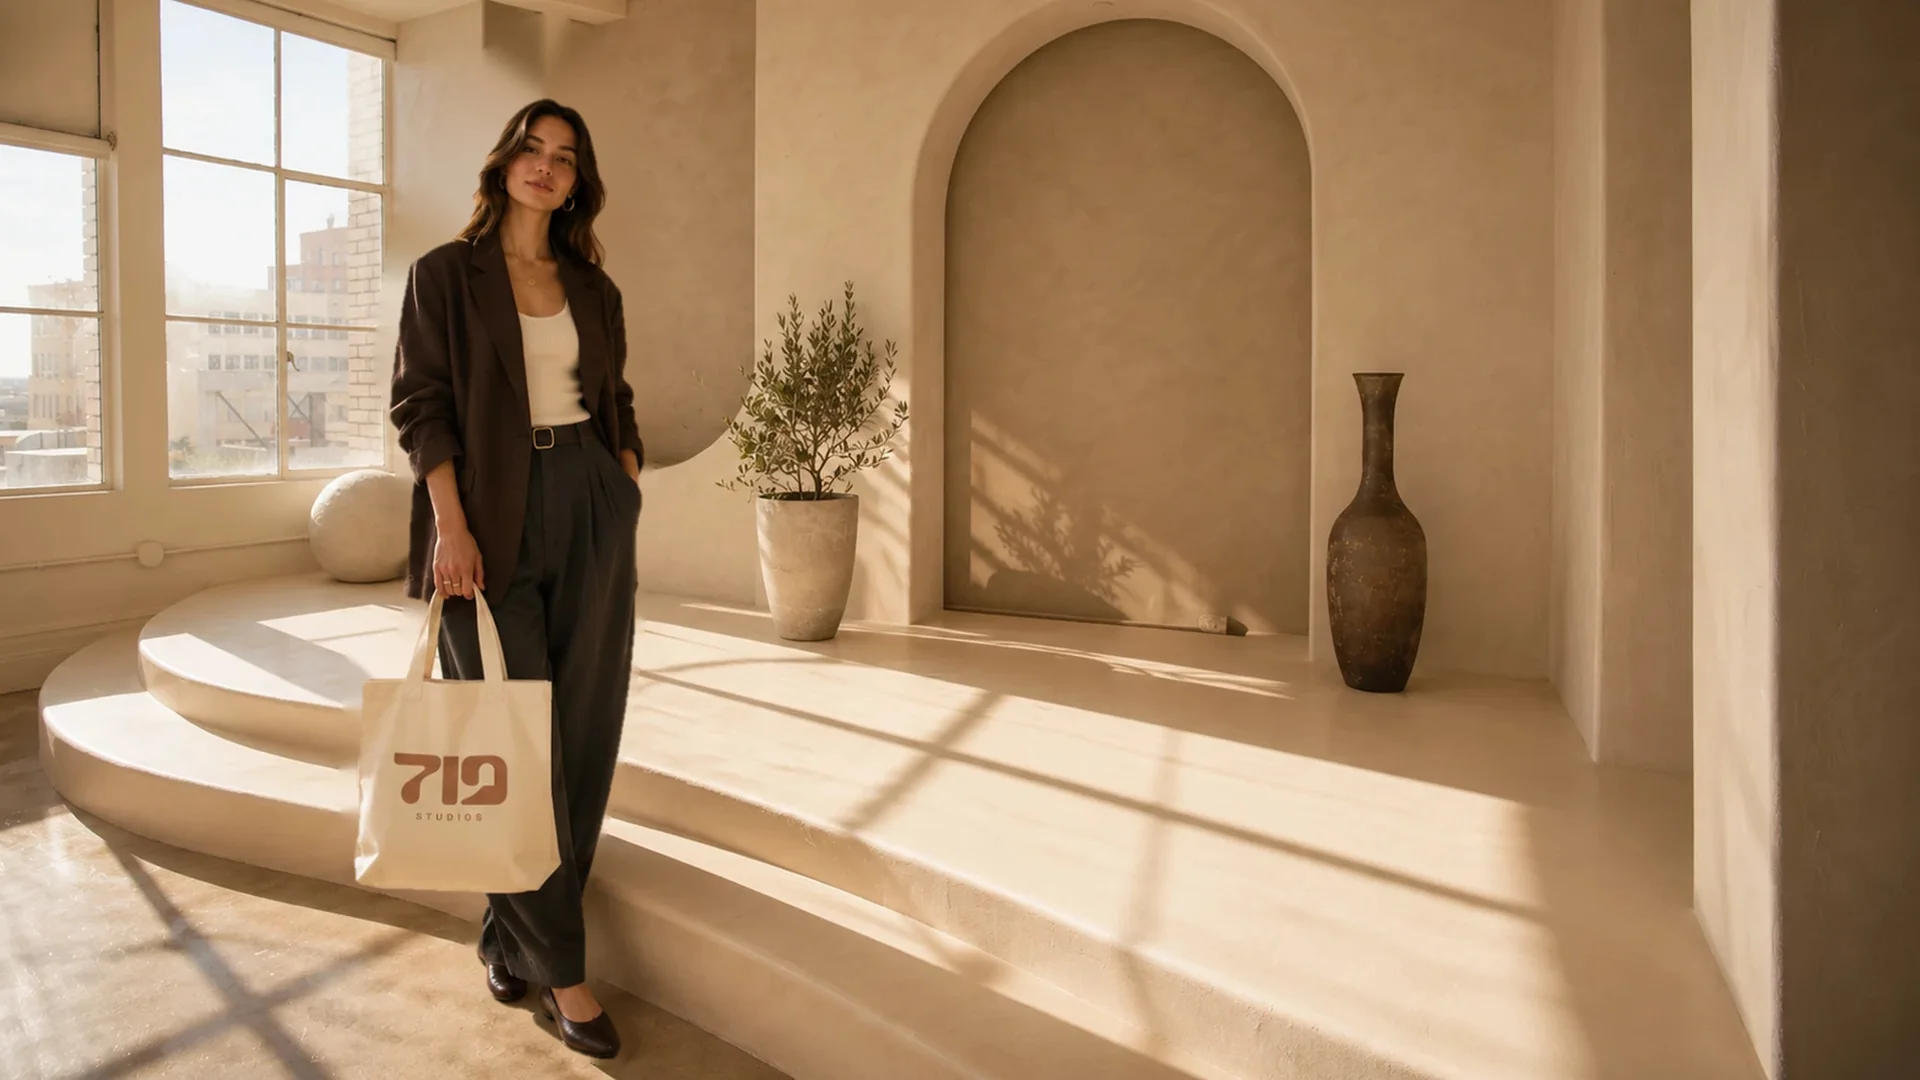
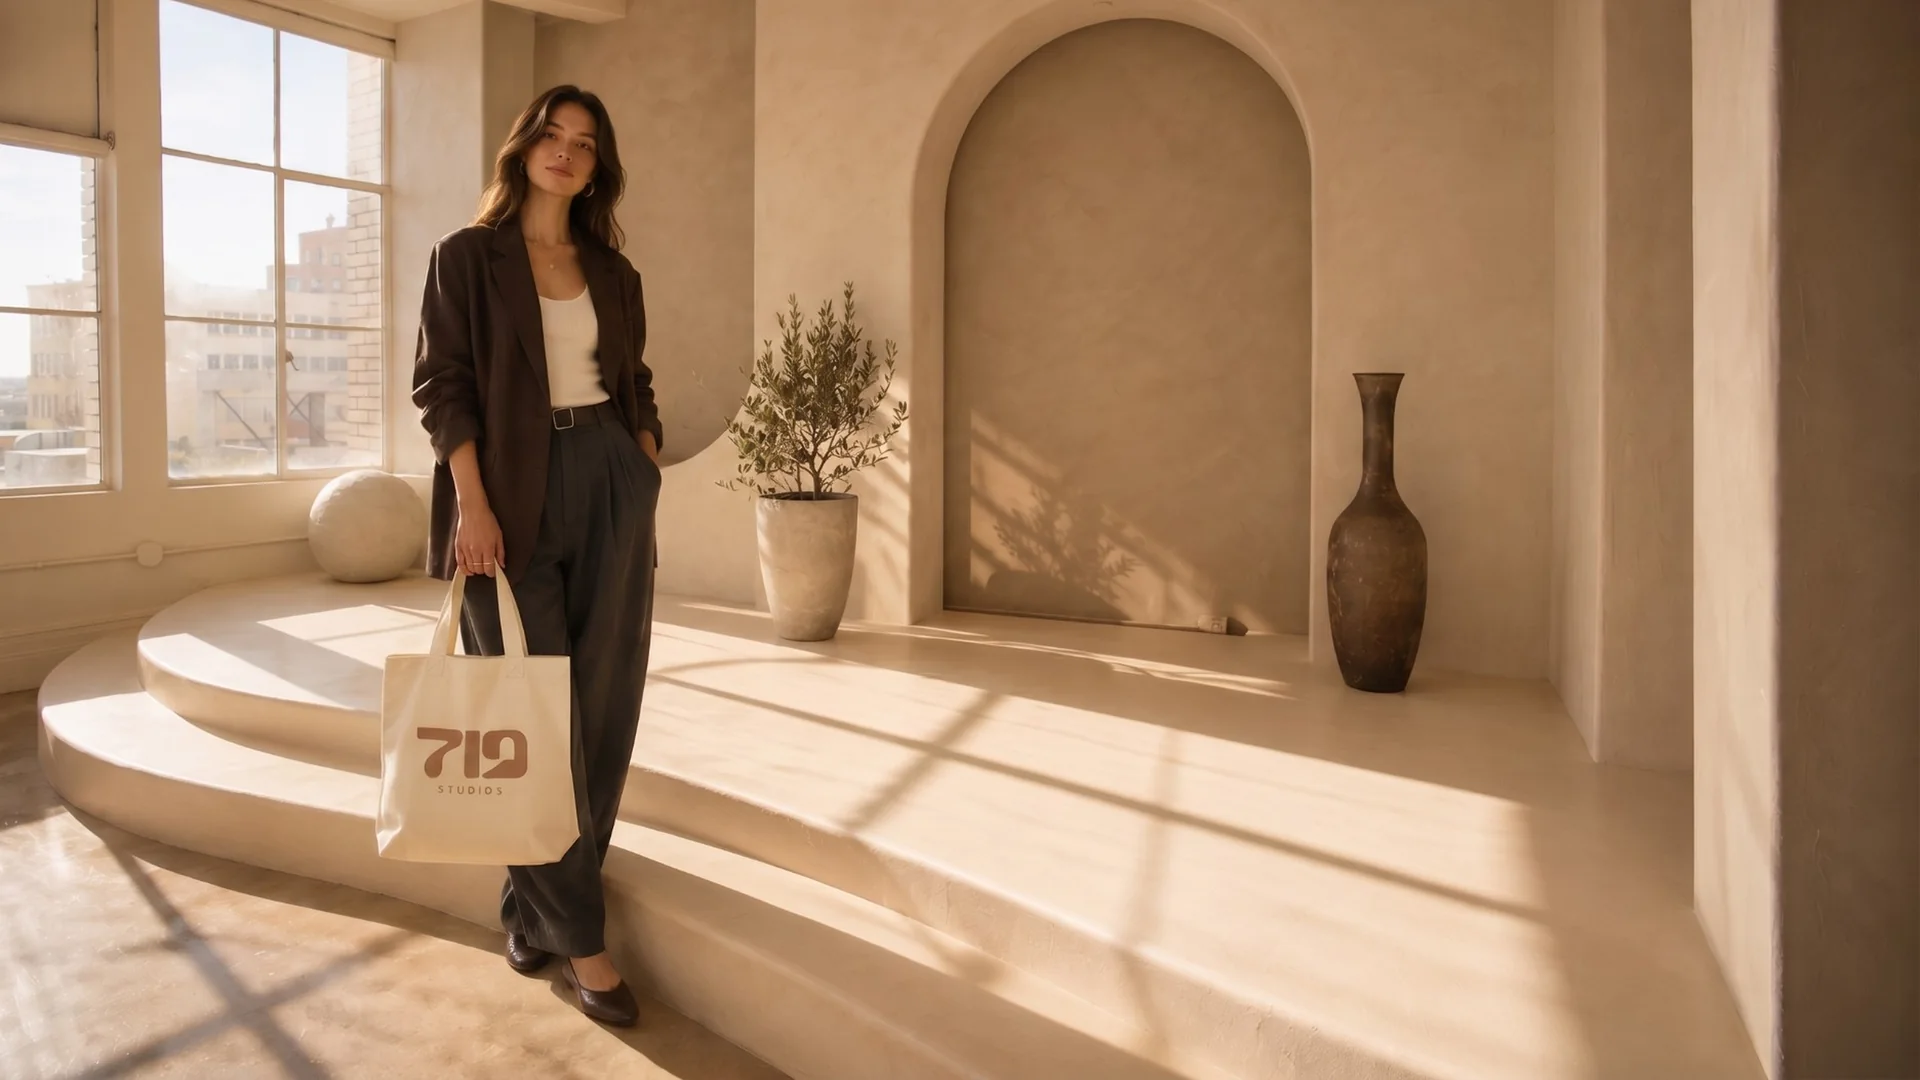
719 Studios: new tote photo, cropped past the air conditioner

diff --git a/work/719-studios/index.html b/work/719-studios/index.html
@@ -85,21 +85,21 @@
     </div>
   </section>
   <div class="g">
-    <figure class="cell c12" data-reveal role="img" aria-label="The 719 Studios logo set inside the orange circle of the Etherea room"><img src="../../assets/img/work/719/deck/figma/04-etherea-1920.webp?v=20261117c" srcset="../../assets/img/work/719/deck/figma/04-etherea-960.webp?v=20261117c 960w, ../../assets/img/work/719/deck/figma/04-etherea-1920.webp?v=20261117c 1920w" sizes="100vw" width="1920" height="1080" alt="" decoding="async"></figure>
-    <figure class="cell c12" data-reveal role="img" aria-label="The five brand colours with their names and values: Umber, Clay, Blush, Sand and Birch"><img src="../../assets/img/work/719/deck/figma/02-palette-1920.webp?v=20261117c" srcset="../../assets/img/work/719/deck/figma/02-palette-960.webp?v=20261117c 960w, ../../assets/img/work/719/deck/figma/02-palette-1920.webp?v=20261117c 1920w" sizes="100vw" width="1920" height="1080" alt="" loading="lazy" decoding="async"></figure>
-    <figure class="cell c6" data-reveal role="img" aria-label="The 719 Studios logo in clay on a pale birch ground"><img src="../../assets/img/work/719/deck/figma/01-logo-1920.webp?v=20261117c" srcset="../../assets/img/work/719/deck/figma/01-logo-960.webp?v=20261117c 960w, ../../assets/img/work/719/deck/figma/01-logo-1920.webp?v=20261117c 1920w" sizes="(max-width: 799px) 100vw, 50vw" width="1920" height="1080" alt="" loading="lazy" decoding="async"></figure>
-    <figure class="cell c6" data-reveal role="img" aria-label="The typeface Bricolage Grotesque in three weights, with the three studio taglines"><img src="../../assets/img/work/719/deck/figma/03-type-1920.webp?v=20261117c" srcset="../../assets/img/work/719/deck/figma/03-type-960.webp?v=20261117c 960w, ../../assets/img/work/719/deck/figma/03-type-1920.webp?v=20261117c 1920w" sizes="(max-width: 799px) 100vw, 50vw" width="1920" height="1080" alt="" loading="lazy" decoding="async"></figure>
-    <figure class="cell c4 tall" data-reveal role="img" aria-label="The Etherea poster: its room through a circle, with the line A little otherworldly"><img src="../../assets/img/work/719/deck/figma/05-poster-etherea-880.webp?v=20261117c" srcset="../../assets/img/work/719/deck/figma/05-poster-etherea-440.webp?v=20261117c 440w, ../../assets/img/work/719/deck/figma/05-poster-etherea-880.webp?v=20261117c 880w, ../../assets/img/work/719/deck/figma/05-poster-etherea-1180.webp?v=20261117c 1180w" sizes="(max-width: 799px) 100vw, 33vw" width="1468" height="2202" alt="" loading="lazy" decoding="async"></figure>
-    <figure class="cell c4 tall" data-reveal role="img" aria-label="The Terra poster: its room through an upside-down arch, with the line Find your own angle"><img src="../../assets/img/work/719/deck/figma/05-poster-terra-880.webp?v=20261117c" srcset="../../assets/img/work/719/deck/figma/05-poster-terra-440.webp?v=20261117c 440w, ../../assets/img/work/719/deck/figma/05-poster-terra-880.webp?v=20261117c 880w, ../../assets/img/work/719/deck/figma/05-poster-terra-1180.webp?v=20261117c 1180w" sizes="(max-width: 799px) 100vw, 33vw" width="1468" height="2202" alt="" loading="lazy" decoding="async"></figure>
-    <figure class="cell c4 tall" data-reveal role="img" aria-label="The Solaris poster: its room through an arch, with the line Let the light in"><img src="../../assets/img/work/719/deck/figma/05-poster-solaris-880.webp?v=20261117c" srcset="../../assets/img/work/719/deck/figma/05-poster-solaris-440.webp?v=20261117c 440w, ../../assets/img/work/719/deck/figma/05-poster-solaris-880.webp?v=20261117c 880w, ../../assets/img/work/719/deck/figma/05-poster-solaris-1180.webp?v=20261117c 1180w" sizes="(max-width: 799px) 100vw, 33vw" width="1468" height="2202" alt="" loading="lazy" decoding="async"></figure>
-    <figure class="cell c12" data-reveal role="img" aria-label="Four figures over a photo taken at Etherea: 1,000+ reviews, 5.0 average rating, No. 9 on Peerspace in Los Angeles in 2023, 3.2M timelapse views"><img src="../../assets/img/work/719/deck/figma/06-numbers-1920.webp?v=20261117c" srcset="../../assets/img/work/719/deck/figma/06-numbers-960.webp?v=20261117c 960w, ../../assets/img/work/719/deck/figma/06-numbers-1920.webp?v=20261117c 1920w" sizes="100vw" width="1920" height="1080" alt="" loading="lazy" decoding="async"></figure>
-    <figure class="cell c6" data-reveal role="img" aria-label="The 719 Studios logo over the empty Terra room"><img src="../../assets/img/work/719/deck/figma/07-terra-1920.webp?v=20261117c" srcset="../../assets/img/work/719/deck/figma/07-terra-960.webp?v=20261117c 960w, ../../assets/img/work/719/deck/figma/07-terra-1920.webp?v=20261117c 1920w" sizes="(max-width: 799px) 100vw, 50vw" width="1920" height="1080" alt="" loading="lazy" decoding="async"></figure>
-    <figure class="cell c6" data-reveal role="img" aria-label="Two oversized studio shapes with a circle between them holding the logo"><img src="../../assets/img/work/719/deck/figma/09-pattern-shapes-1920.webp?v=20261117c" srcset="../../assets/img/work/719/deck/figma/09-pattern-shapes-960.webp?v=20261117c 960w, ../../assets/img/work/719/deck/figma/09-pattern-shapes-1920.webp?v=20261117c 1920w" sizes="(max-width: 799px) 100vw, 50vw" width="1920" height="1080" alt="" loading="lazy" decoding="async"></figure>
-    <figure class="cell c12" data-reveal role="img" aria-label="A concept ad banner with the line Room to make and three photos seen through the studio shapes"><img src="../../assets/img/work/719/deck/figma/10-ad-1920.webp?v=20261117c" srcset="../../assets/img/work/719/deck/figma/10-ad-960.webp?v=20261117c 960w, ../../assets/img/work/719/deck/figma/10-ad-1920.webp?v=20261117c 1920w" sizes="100vw" width="1920" height="1080" alt="" loading="lazy" decoding="async"></figure>
-    <figure class="cell c6" data-reveal role="img" aria-label="A concept email signature with the three studio shapes and the logo"><img src="../../assets/img/work/719/deck/figma/11-email-1920.webp?v=20261117c" srcset="../../assets/img/work/719/deck/figma/11-email-960.webp?v=20261117c 960w, ../../assets/img/work/719/deck/figma/11-email-1920.webp?v=20261117c 1920w" sizes="(max-width: 799px) 100vw, 50vw" width="1920" height="1080" alt="" loading="lazy" decoding="async"></figure>
-    <figure class="cell c6" data-reveal role="img" aria-label="A concept website header with the line Room to make and a large circular photo"><img src="../../assets/img/work/719/deck/figma/12-website-1920.webp?v=20261117c" srcset="../../assets/img/work/719/deck/figma/12-website-960.webp?v=20261117c 960w, ../../assets/img/work/719/deck/figma/12-website-1920.webp?v=20261117c 1920w" sizes="(max-width: 799px) 100vw, 50vw" width="1920" height="1080" alt="" loading="lazy" decoding="async"></figure>
-    <figure class="cell c6" data-reveal role="img" aria-label="A concept T-shirt in clay with the three studio shapes on the back, worn in a room like Solaris"><img src="../../assets/img/work/719/deck/figma/13-shirt-1920.webp?v=20261117c" srcset="../../assets/img/work/719/deck/figma/13-shirt-960.webp?v=20261117c 960w, ../../assets/img/work/719/deck/figma/13-shirt-1920.webp?v=20261117c 1920w" sizes="(max-width: 799px) 100vw, 50vw" width="1920" height="1080" alt="" loading="lazy" decoding="async"></figure>
-    <figure class="cell c6" data-reveal role="img" aria-label="A concept canvas tote bag with the logo, carried in a room like Terra"><img src="../../assets/img/work/719/deck/figma/14-tote-1920.webp?v=20261117c" srcset="../../assets/img/work/719/deck/figma/14-tote-960.webp?v=20261117c 960w, ../../assets/img/work/719/deck/figma/14-tote-1920.webp?v=20261117c 1920w" sizes="(max-width: 799px) 100vw, 50vw" width="1920" height="1080" alt="" loading="lazy" decoding="async"></figure>
+    <figure class="cell c12" data-reveal role="img" aria-label="The 719 Studios logo set inside the orange circle of the Etherea room"><img src="../../assets/img/work/719/deck/figma/04-etherea-1920.webp?v=20261117d" srcset="../../assets/img/work/719/deck/figma/04-etherea-960.webp?v=20261117d 960w, ../../assets/img/work/719/deck/figma/04-etherea-1920.webp?v=20261117d 1920w" sizes="100vw" width="1920" height="1080" alt="" decoding="async"></figure>
+    <figure class="cell c12" data-reveal role="img" aria-label="The five brand colours with their names and values: Umber, Clay, Blush, Sand and Birch"><img src="../../assets/img/work/719/deck/figma/02-palette-1920.webp?v=20261117d" srcset="../../assets/img/work/719/deck/figma/02-palette-960.webp?v=20261117d 960w, ../../assets/img/work/719/deck/figma/02-palette-1920.webp?v=20261117d 1920w" sizes="100vw" width="1920" height="1080" alt="" loading="lazy" decoding="async"></figure>
+    <figure class="cell c6" data-reveal role="img" aria-label="The 719 Studios logo in clay on a pale birch ground"><img src="../../assets/img/work/719/deck/figma/01-logo-1920.webp?v=20261117d" srcset="../../assets/img/work/719/deck/figma/01-logo-960.webp?v=20261117d 960w, ../../assets/img/work/719/deck/figma/01-logo-1920.webp?v=20261117d 1920w" sizes="(max-width: 799px) 100vw, 50vw" width="1920" height="1080" alt="" loading="lazy" decoding="async"></figure>
+    <figure class="cell c6" data-reveal role="img" aria-label="The typeface Bricolage Grotesque in three weights, with the three studio taglines"><img src="../../assets/img/work/719/deck/figma/03-type-1920.webp?v=20261117d" srcset="../../assets/img/work/719/deck/figma/03-type-960.webp?v=20261117d 960w, ../../assets/img/work/719/deck/figma/03-type-1920.webp?v=20261117d 1920w" sizes="(max-width: 799px) 100vw, 50vw" width="1920" height="1080" alt="" loading="lazy" decoding="async"></figure>
+    <figure class="cell c4 tall" data-reveal role="img" aria-label="The Etherea poster: its room through a circle, with the line A little otherworldly"><img src="../../assets/img/work/719/deck/figma/05-poster-etherea-880.webp?v=20261117d" srcset="../../assets/img/work/719/deck/figma/05-poster-etherea-440.webp?v=20261117d 440w, ../../assets/img/work/719/deck/figma/05-poster-etherea-880.webp?v=20261117d 880w, ../../assets/img/work/719/deck/figma/05-poster-etherea-1180.webp?v=20261117d 1180w" sizes="(max-width: 799px) 100vw, 33vw" width="1468" height="2202" alt="" loading="lazy" decoding="async"></figure>
+    <figure class="cell c4 tall" data-reveal role="img" aria-label="The Terra poster: its room through an upside-down arch, with the line Find your own angle"><img src="../../assets/img/work/719/deck/figma/05-poster-terra-880.webp?v=20261117d" srcset="../../assets/img/work/719/deck/figma/05-poster-terra-440.webp?v=20261117d 440w, ../../assets/img/work/719/deck/figma/05-poster-terra-880.webp?v=20261117d 880w, ../../assets/img/work/719/deck/figma/05-poster-terra-1180.webp?v=20261117d 1180w" sizes="(max-width: 799px) 100vw, 33vw" width="1468" height="2202" alt="" loading="lazy" decoding="async"></figure>
+    <figure class="cell c4 tall" data-reveal role="img" aria-label="The Solaris poster: its room through an arch, with the line Let the light in"><img src="../../assets/img/work/719/deck/figma/05-poster-solaris-880.webp?v=20261117d" srcset="../../assets/img/work/719/deck/figma/05-poster-solaris-440.webp?v=20261117d 440w, ../../assets/img/work/719/deck/figma/05-poster-solaris-880.webp?v=20261117d 880w, ../../assets/img/work/719/deck/figma/05-poster-solaris-1180.webp?v=20261117d 1180w" sizes="(max-width: 799px) 100vw, 33vw" width="1468" height="2202" alt="" loading="lazy" decoding="async"></figure>
+    <figure class="cell c12" data-reveal role="img" aria-label="Four figures over a photo taken at Etherea: 1,000+ reviews, 5.0 average rating, No. 9 on Peerspace in Los Angeles in 2023, 3.2M timelapse views"><img src="../../assets/img/work/719/deck/figma/06-numbers-1920.webp?v=20261117d" srcset="../../assets/img/work/719/deck/figma/06-numbers-960.webp?v=20261117d 960w, ../../assets/img/work/719/deck/figma/06-numbers-1920.webp?v=20261117d 1920w" sizes="100vw" width="1920" height="1080" alt="" loading="lazy" decoding="async"></figure>
+    <figure class="cell c6" data-reveal role="img" aria-label="The 719 Studios logo over the empty Terra room"><img src="../../assets/img/work/719/deck/figma/07-terra-1920.webp?v=20261117d" srcset="../../assets/img/work/719/deck/figma/07-terra-960.webp?v=20261117d 960w, ../../assets/img/work/719/deck/figma/07-terra-1920.webp?v=20261117d 1920w" sizes="(max-width: 799px) 100vw, 50vw" width="1920" height="1080" alt="" loading="lazy" decoding="async"></figure>
+    <figure class="cell c6" data-reveal role="img" aria-label="Two oversized studio shapes with a circle between them holding the logo"><img src="../../assets/img/work/719/deck/figma/09-pattern-shapes-1920.webp?v=20261117d" srcset="../../assets/img/work/719/deck/figma/09-pattern-shapes-960.webp?v=20261117d 960w, ../../assets/img/work/719/deck/figma/09-pattern-shapes-1920.webp?v=20261117d 1920w" sizes="(max-width: 799px) 100vw, 50vw" width="1920" height="1080" alt="" loading="lazy" decoding="async"></figure>
+    <figure class="cell c12" data-reveal role="img" aria-label="A concept ad banner with the line Room to make and three photos seen through the studio shapes"><img src="../../assets/img/work/719/deck/figma/10-ad-1920.webp?v=20261117d" srcset="../../assets/img/work/719/deck/figma/10-ad-960.webp?v=20261117d 960w, ../../assets/img/work/719/deck/figma/10-ad-1920.webp?v=20261117d 1920w" sizes="100vw" width="1920" height="1080" alt="" loading="lazy" decoding="async"></figure>
+    <figure class="cell c6" data-reveal role="img" aria-label="A concept email signature with the three studio shapes and the logo"><img src="../../assets/img/work/719/deck/figma/11-email-1920.webp?v=20261117d" srcset="../../assets/img/work/719/deck/figma/11-email-960.webp?v=20261117d 960w, ../../assets/img/work/719/deck/figma/11-email-1920.webp?v=20261117d 1920w" sizes="(max-width: 799px) 100vw, 50vw" width="1920" height="1080" alt="" loading="lazy" decoding="async"></figure>
+    <figure class="cell c6" data-reveal role="img" aria-label="A concept website header with the line Room to make and a large circular photo"><img src="../../assets/img/work/719/deck/figma/12-website-1920.webp?v=20261117d" srcset="../../assets/img/work/719/deck/figma/12-website-960.webp?v=20261117d 960w, ../../assets/img/work/719/deck/figma/12-website-1920.webp?v=20261117d 1920w" sizes="(max-width: 799px) 100vw, 50vw" width="1920" height="1080" alt="" loading="lazy" decoding="async"></figure>
+    <figure class="cell c6" data-reveal role="img" aria-label="A concept T-shirt in clay with the three studio shapes on the back, worn in a room like Solaris"><img src="../../assets/img/work/719/deck/figma/13-shirt-1920.webp?v=20261117d" srcset="../../assets/img/work/719/deck/figma/13-shirt-960.webp?v=20261117d 960w, ../../assets/img/work/719/deck/figma/13-shirt-1920.webp?v=20261117d 1920w" sizes="(max-width: 799px) 100vw, 50vw" width="1920" height="1080" alt="" loading="lazy" decoding="async"></figure>
+    <figure class="cell c6" data-reveal role="img" aria-label="A concept canvas tote bag with the logo, carried in a room like Terra"><img src="../../assets/img/work/719/deck/figma/14-tote-1920.webp?v=20261117d" srcset="../../assets/img/work/719/deck/figma/14-tote-960.webp?v=20261117d 960w, ../../assets/img/work/719/deck/figma/14-tote-1920.webp?v=20261117d 1920w" sizes="(max-width: 799px) 100vw, 50vw" width="1920" height="1080" alt="" loading="lazy" decoding="async"></figure>
   </div>
   <p class="hud fine">The three studios, room photos, reviews, award and timelapse views are real. Website, ad, email signature, T-shirt and tote bag are unproduced concepts; both pictures of people are AI-generated.</p>
 </main>
